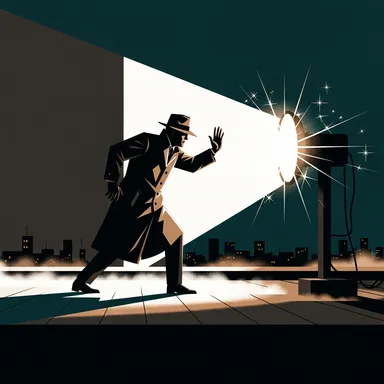
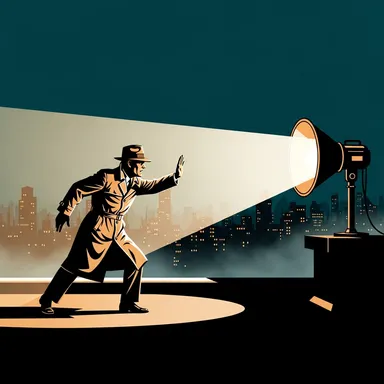
feat(burned-arc): iter 3 — foreground hero operative + continuous cone (caught/discovered)
Briggsy spotted the cone truncation in iter 1 (commit fea581fd) — the
hard-edged polygon-of-light terminated mid-air at the operative's torso
with no physical motivation. Two iterations to land the fix:

- Iter 2 (rejected): cone made continuous with gradient falloff, plus
  cast shadow on the rooftop floor — but the bulb apparatus dominated
  the frame and the operative shrank to a peripheral walking figure.
  Lost the operative drama.
- Iter 3 (shipping): foreground hero operative (iter 1's scale, pose,
  half-lit silhouette) + iter 2's continuous cone + cast shadow + an
  explicit "caught/discovered" emotional directive. Compositional
  structural directive (operative LEFT TWO-THIRDS, bulb at FAR-RIGHT
  edge) made the difference — Imagen responded to fractional layout
  prescriptions where prose alone hadn't.

The image now reads "the agent has been caught" — frozen mid-stride,
hand up shielding, head snapped toward the firing bulb, body half-lit
and casting a long elongated shadow across the rooftop floor as the
continuous cone of light extends past him to fade at the screen-left
edge of the frame.

Eye-in-loop catch worth keeping. My critical-eyeball pass on iter 1
called out the tripod-bulb deviation as a happy accident (true) but
missed the cone truncation entirely (false negative). Briggsy spotted
it in seconds. Pattern: agent-style verification gets locked on
composition + anatomy + frame-fit and misses LIGHT PHYSICS / MOTION /
continuity. Generalizes the
[…]

diff --git a/projects/burned/scripts/generate-cards.ts b/projects/burned/scripts/generate-cards.ts
@@ -35,37 +35,45 @@ const CARDS: CardPrompt[] = [
     type: 'burned',
     name: 'Burned',
     prompt:
-      // Iter 1 (2026-05-06): pivot from the original Apr-9 abstract
-      // explosion + spy ID badge concept (text leaked onto badge "SPI[K]";
-      // Memphis-pattern radiating triangles read 1980s graphic design not
-      // 1960s Saul Bass; cream border violated full-bleed deck standard).
-      // Re-architected to Concept A — the MOMENT of identity exposure: a
-      // covert operative on a rooftop at night caught in the burst of an
-      // unseen camera flashbulb. Insight 018 strategies: REMOVE the
-      // problem element (no badge, no ID card — kills text leak + bad
-      // anatomy), RECONTEXTUALIZE to bypass priors (rooftop + covert kills
-      // paparazzi/red-carpet/mugshot priors that "flashbulb + person"
-      // would otherwise summon). Deck cohesion: trench coat + fedora
-      // silhouette + duotone night palette matches Go Dark, Back Channel,
-      // Call in a Favor. The bright white-amber blast is the SOLE light
-      // source — every shadow falls left because the flash is at screen-
-      // right just outside frame.
-      'a dramatic rooftop at night caught in the instant of a flashbulb detonation, ' +
-      'ONE solitary operative in a long trench coat and fedora hat is mid-stride across the rooftop, captured mid-turn — body angled forward but head and shoulders rotating to look toward a brilliant blast of white-amber light coming from screen-right just outside the frame, ' +
-      'the operative is hit by the flashbulb burst from the right side, harshly side-lit so the right half of the silhouette is washed out in pure white-amber glare and the left half is deep charcoal shadow, the SILHOUETTE of the figure is the hero, no detailed facial features required, the form reads as posture and outline, ' +
-      'the operative\'s right hand is raised toward the light in a defensive shielding gesture, fingers splayed with the palm facing the blast and the back of the hand toward the operative\'s own face, ' +
-      'a radial flare of bright white-amber rays emanates from the screen-right edge of the frame, with a few sparkling lens-flare pinpricks scattered across the air around the burst, ' +
-      'a dark city skyline silhouette of tall rectangular buildings runs across the bottom horizon line, deep charcoal shapes with a few tiny warm amber pinpricks for distant lit windows, ' +
-      'a thin layer of fog and mist hangs in the air on the rooftop and catches the flashbulb burst as a soft glowing white-amber haze, ' +
-      'CRITICAL: ONLY ONE PERSON in the entire image, the lone operative is the only human, NO photographer visible, NO second figure, NO crowd, NO red carpet, NO event, NO formal venue, NO press scrum — this is a covert rooftop at night, not a public setting, ' +
-      'the SOLE light source is the white-amber flashbulb burst from screen-right, no other light sources, the rooftop is otherwise dark with only faint distant city ambient glow at the horizon, every shadow in the scene falls toward the left because the light comes from the right, ' +
-      'NO badge, NO ID card, NO photograph, NO camera in frame, NO sign, NO document — the flashbulb burst alone tells the story of identity captured, ' +
-      'the moment your cover is blown, surprise frozen in white light, the unseen camera that just made you, ' +
-      'cool deep teal and charcoal night palette with the SINGLE blast of brilliant white-amber as the dominant accent, ' +
+      // Iter 3 (2026-05-06): iter 2 fixed iter 1's hard-edged cone
+      // truncation but lost iter 1's operative drama — the bulb apparatus
+      // dominated and the operative shrank to a peripheral walking
+      // figure. Briggsy verdict: "convey the agent has been caught /
+      // discovered." Iter 3 combines:
+      //   * Iter 1's foreground HERO operative (large in frame,
+      //     dramatic shielding pose, half-lit silhouette).
+      //   * Iter 2's continuous cone (extends past operative, gradual
+      //     falloff, NO hard mid-air boundary) + cast shadow on the
+      //     rooftop floor.
+      //   * NEW: explicit emotional payload — frozen at the instant of
+      //     DISCOVERY, head snapped sharply to face the bulb, body
+      //     reading as REACTIVE not in-motion. The card is called
+      //     BURNED; the cinematic in-game is the moment of being made.
+      // Compositional structural directive: operative occupies the LEFT
+      // TWO-THIRDS of the frame as dominant subject, bulb + tripod at
+      // far-right edge as the source of the cone, NOT the hero.
+      //
+      // Iter 1 archive: public/assets/cards/_archive/burned-2026-05-06-iter1-cone-truncation-rejected.webp
+      // Iter 2 archive: public/assets/cards/_archive/burned-2026-05-06-iter2-operative-too-small-rejected.webp
+      'a dramatic close-up rooftop scene at night at the instant of a flashbulb detonation, the moment of DISCOVERY captured in still frame — an operative caught and made by an unseen camera, ' +
+      'COMPOSITIONAL LAYOUT — ONE solitary operative occupies the LEFT TWO-THIRDS of the frame as the dominant subject filling roughly HALF the vertical height of the frame, a tripod-mounted vintage flashbulb sits at the FAR-RIGHT edge of the frame as the source of the cone of light but NOT the visual hero, the cone of light fills the space between them and extends past the operative to fade at the screen-left edge, ' +
+      'the operative wears a long trench coat and a fedora hat, captured FROZEN mid-stride at the precise instant of being SEEN — his body angled forward as if walking but his head snapped sharply to the right looking directly toward the firing bulb, shoulders rotating in startled recognition, knee bent from the interrupted stride, the body language reads as INSTANT REACTION to being caught: this is the moment of cover blown, surprise and recognition frozen in white light, ' +
+      'the operative\'s right arm is raised toward the light in a defensive shielding gesture, palm of the hand facing the bulb and the back of the hand toward the operative\'s own face, fingers splayed, the arm at shoulder height, ' +
+      'the operative is harshly side-lit by the cone of light from the right — his right side facing the bulb is brightly washed in pure white-amber glare, the contour of his right arm shoulder hat brim and trench coat catches the light as a hard-edged bright silhouette outline, his left side falls into deep self-shadow, the operative reads as a HIGH-CONTRAST silhouette with one harshly-lit edge and one shadowed edge — body and emotion reading through posture and outline alone, no detailed facial features required, ' +
+      'a BROAD WIDE cone of brilliant white-amber light fans out from the firing flashbulb at screen-right across the entire rooftop, the cone is ONE CONTINUOUS WEDGE of illumination starting at the bulb and extending all the way past the operative to the screen-left edge of the frame, the cone widens as it travels leftward and the light fades GRADUALLY at its outer reaches with a soft gradient falloff, NO hard-edged truncation in mid-air anywhere, the cone CONTINUES past the operative and reaches the rooftop floor on the far side, ' +
+      'the operative\'s body casts a long elongated dark SHADOW on the rooftop floor stretching toward screen-left as the bulb\'s light hits him — his own shadow on the floor is the only motivated dark zone within the cone\'s reach, ' +
+      'a vintage 1960s studio flashbulb on a slim metal tripod is positioned at the FAR RIGHT edge of the frame, the bulb FIRING at the moment of capture with sparkling lens-flare pinpricks scattered around it, the tripod and bulb apparatus are visible but compositionally SUBORDINATE to the operative — they live at the right edge as the source of the cone, not the visual focus, ' +
+      'a dark city skyline silhouette of tall rectangular buildings runs across the bottom horizon line behind the operative, deep charcoal shapes with a few tiny warm amber pinpricks for distant lit windows, ' +
+      'a thin layer of fog and mist hangs in the air on the rooftop and catches the cone of light as a soft glowing white-amber haze, especially dense near the bulb, ' +
+      'CRITICAL: ONLY ONE PERSON in the entire image, the lone operative is the only human, NO photographer visible behind the tripod, NO second figure, NO crowd, NO red carpet, NO event, NO formal venue, NO press scrum — this is a covert rooftop at night, the tripod stands alone with no operator, ' +
+      'the SOLE light source is the firing flashbulb at screen-right, no other light sources, every shadow in the scene falls toward the left because the light comes from the right, ' +
+      'NO badge, NO ID card, NO photograph in frame, NO sign, NO document — the firing flashbulb alone tells the story of identity captured, ' +
+      'the moment your cover is blown, the instant of being SEEN, the agent caught and discovered, REVELATION frozen in white light, ' +
+      'cool deep teal and charcoal night palette with the SINGLE cone of brilliant white-amber as the dominant accent, ' +
       'the scene fills the entire square frame edge to edge with NO white borders NO cream borders NO vignette NO padding NO matting, every corner contains rooftop or sky or city silhouette, ' +
       'NO text NO letters NO words NO numbers NO writing anywhere in the scene on any surface, ' +
       'mid-century modern 1960s spy-film noir aesthetic, bold geometric angular style, flat illustration, ' +
-      'square full-bleed composition centered on the silhouetted operative caught in the flashbulb burst',
+      'square full-bleed composition with the foreground operative as the dominant hero, caught in the continuous cone of light at the instant of discovery',
   },
   {
     type: 'extraction',

diff --git a/projects/burned/TODO.md b/projects/burned/TODO.md
@@ -2,52 +2,66 @@
 
 ## NEXT SESSION — pick up here (2026-05-06+)
 
-### THIS SESSION (2026-05-06 afternoon) — Burned card art regen (concept A flashbulb) + Active Priority #1 closed
+### THIS SESSION (2026-05-06 afternoon) — Burned card art regen (concept A flashbulb, iter 3) + Active Priority #1 closed
 
-One feature commit. Closes the BURNED CARD CINEMATIC ARC priority — all four
-sub-steps now shipped.
+Two feature commits — initial regen + Briggsy-flagged iteration. Closes the
+BURNED CARD CINEMATIC ARC priority; all four sub-steps shipped.
 
 | Commit | Subject |
 |---|---|
-| (this) | feat(burned-arc): close sub-step #4 — Burned card art (concept A flashbulb) |
+| `fea581fd` | feat(burned-arc): close sub-step #4 — Burned card art (concept A flashbulb) |
+| (this) | feat(burned-arc): iter 3 — foreground hero operative + continuous cone (caught/discovered) |
 
 **Stale-TODO catch.** Sub-step #3 (DefusePlacement hero card) was listed as
-"remaining" but actually shipped in commit `98b8e1ae` (`feat(burned-arc): close
-sub-step #3 — hero Burned card + sheet UI unification`). Caught at session-
-start verification — saved a duplicate-work session. Crossed off below.
+"remaining" but actually shipped in commit `98b8e1ae`. Caught at session-start
+verification — saved a duplicate-work session.
 
-**Sub-step #4 — Burned card art regen.** Concept A (flashbulb exposure) shipped
-on the first roll. Re-architected from the original Apr-9 abstract spy-badge-
-explosion (text leaked onto badge "SPI[K]"; Memphis-pattern triangles read
-1980s-graphic-design not 1960s-Saul-Bass; cream border violated full-bleed
-deck standard) to a single-frame noir cinematic: lone trench-coated operative
-mid-stride on a dark rooftop, caught in the burst of a tripod-mounted vintage
-studio flashbulb at screen-right, hand raised to shield from the white-amber
-blast, dark-charcoal city skyline behind with tiny amber window pinpricks.
-Saul Bass duotone palette (deep teal night + charcoal silhouette + brilliant
-white-amber accent) matches Direct Order / Go Dark / Back Channel deck
-cohesion.
+**Three-iteration arc on the regen.** Concept A (flashbulb exposure) was the
+right concept; took three rolls to land it. Each iter solved the previous
+iter's failure mode while introducing a new one — classic eye-in-loop
+calibration:
 
-**Insight 018 strategies in play.** REMOVE the problem element (no badge,
-no ID card → kills both the text-leak risk AND the bad anatomy at low
-resolution). RECONTEXTUALIZE to bypass priors (rooftop + covert kills the
-paparazzi/red-carpet/mugshot pulls that "flashbulb + person" would otherwise
-summon).
+- **Iter 1** — fixed every original-Apr-9 issue (no text leak, full-bleed
+  honored, Saul Bass language) but produced a hard-edged cone of light that
+  TRUNCATED in mid-air at the operative's torso. Polygon-of-light reading,
+  not a physical event. Briggsy caught it in his check-in.
+  Archive: `_archive/burned-2026-05-06-iter1-cone-truncation-rejected.webp`.
+- **Iter 2** — fixed the cone (continuous, gradient falloff, extends to
+  frame-left) and added the operative's cast shadow on the rooftop floor for
+  physical motivation, BUT the bulb apparatus dominated the frame and the
+  operative shrank to a peripheral walking figure. Lost the operative drama.
+  Archive: `_archive/burned-2026-05-06-iter2-operative-too-small-rejected.webp`.
+- **Iter 3** ✅ — combined iter 1's foreground hero operative (large, dramatic
+  shielding pose, half-lit silhouette, frozen mid-stride) WITH iter 2's
+  continuous cone + cast shadow, plus an explicit emotional directive: the
+  agent has been CAUGHT/DISCOVERED, body language reads as INSTANT REACTION
+  to being seen. Compositional structural directive: operative occupies the
+  LEFT TWO-THIRDS of the frame, bulb apparatus at far-right edge as
+  subordinate source. Shipping this.
 
-**Happy-accident worth flagging for future regens.** I explicitly said "NO
-camera in frame" — Imagen rendered a tripod-mounted studio strobe at screen-
-right anyway. Kept it: the tripod GROUNDS the threat ("someone rigged this
-ahead of time, you walked into it") and is period-correct for 1960s flashbulb
-tech. Eyeball outcomes vs intentions; deviations that strengthen the image
-get kept. Documented in the prompt comment in `scripts/generate-cards.ts`.
+**Insight 018 strategies in play.** REMOVE the problem element (no badge, no
+ID card — kills text-leak + bad anatomy). RECONTEXTUALIZE to bypass priors
+(rooftop + covert kills paparazzi/red-carpet/mugshot pulls). And iter 3
+proved a fourth: PRESCRIBE COMPOSITIONAL LAYOUT in numbers/fractions ("LEFT
+TWO-THIRDS", "HALF the vertical height") — Imagen responded to structural
+directives where prose alone hadn't.
 
-**Verification.** Hero size (160px DefusePlacement slot) + hand size (108px
-hand strip) checked side-by-side with `direct-order.webp` via in-page DOM-
-injection harness on `localhost:5173`. Frame fit clean (full-bleed honored,
-`object-fit: contain` matches). Color cohesion strong (both cards same
-visual language + duotone palette + warm accent). At hand size the white
-blast is the at-glance Burned identifier — strong glanceability differentiator
-from amber-warm action cards.
+**Eye-in-loop catch worth keeping.** Iter 1 cleared my critical-eyeball pass
+(I called out the tripod-bulb deviation as a happy accident, which was true,
+and I missed the cone truncation completely). Briggsy spotted it in seconds.
+Pattern: my agent-eye gets locked on composition + anatomy + frame-fit and
+misses LIGHT PHYSICS / MOTION / continuity. Same gap as the
+`feedback-eye-in-loop-beats-calibration-for-motion.md` lesson —
+generalizes from motion to other perceptual continuities (light spread,
+shadow direction, depth cues).
+
+**Verification.** Three-card harness (Burned + Direct Order + Go Dark) at
+hero size (160px) + hand size (108px) via in-page DOM-injection on
+`localhost:5173`. Deck cohesion confirmed — three trench-coat-and-fedora
+cards reading as one visual language. Burned and Go Dark are visual mirrors
+with opposite emotional payloads (caught vs escape). At hand size the
+white-amber cone is the at-glance Burned identifier vs the amber-warm
+interior action cards.
 
 ### Actionable next — pick one
 
